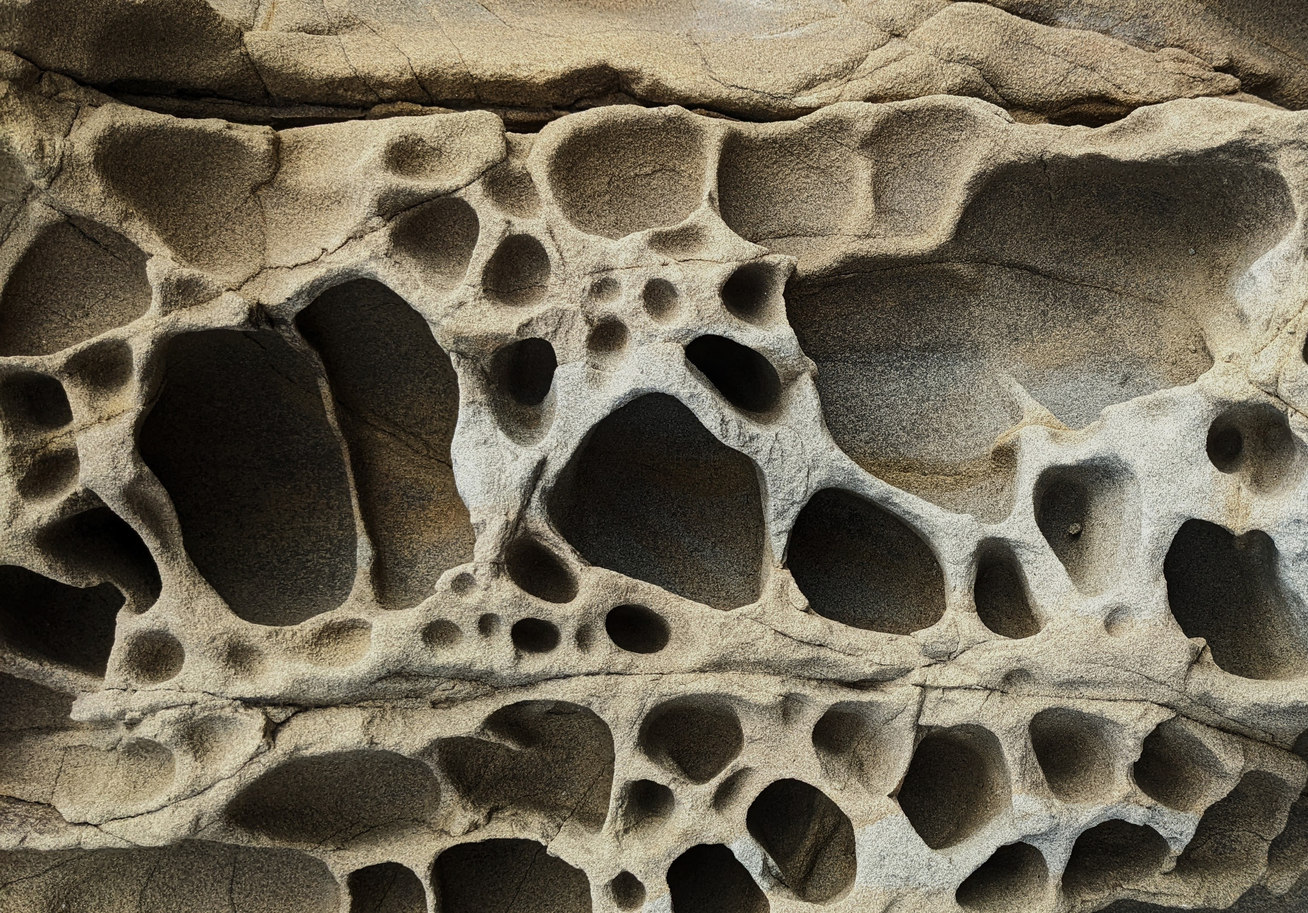
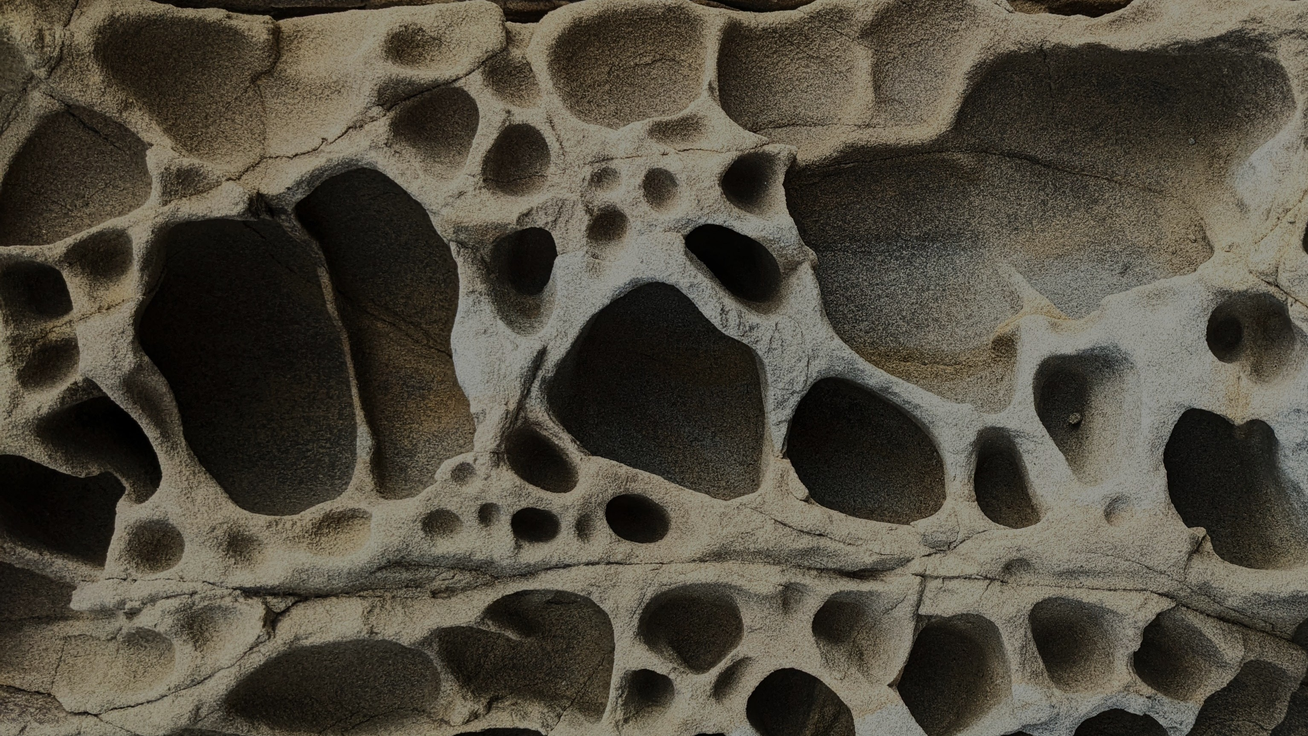
Cutlery updates and minor changes

diff --git a/src/content/pages/modular-cutlery.md b/src/content/pages/modular-cutlery.md
@@ -58,7 +58,9 @@ _The goal of this project was to explore my thesis: adding functionality to comm
 
 The modular cutlery design piece was put on display at the Boston Design Center for 2 weeks alongside other students' completed sets.
 
-![Boston Design Center Display](/images/image.png)
+<div class="aspect-[9:16] w-150 overflow-hidden mx-auto bg-[#111]">
+  <img src="/images/omnicut2.jpg" alt="omnicut" class="w-full h-full object-cover object-bottom" />
+</div>
 
 A designer lamp was photographed in the Boston Design Center to make the 3D rendering. The resulting model was sent through programs such as Microsoft 3D Repair to ensure the mesh was complete enough to be altered; developing techniques to seal and manipulate meshes of complex 3D models with thousands of vertices.
 
@@ -97,19 +99,29 @@ A designer lamp was photographed in the Boston Design Center to make the 3D rend
   <img src="/images/f470f-87d8fb_3165cf11d65c4ca5bb0ba5ba6e52e9eemv2_d_2592_3888_s_4_2.jpg" class="w-full" />
 </div>
 
-I began with sketches of ideas for a complete set of useful forms solely by recontextualizing the scanned lamp shape. These ideas ranged from interior automotive elements to bedroom furniture sets and, of course, to chopsticks. The displayed sketches show some of the brainstorming already within the realm of dishware.
+The resulting full 3D scan, and the cleaned up file generated from it, can be seen here. 
 
-These sketches were transformed into 3D sketches in Solidworks and further model manipulation was done within and between Maya, Adobe Illustrator, Netfabb, and Blender.
 
-<div class="grid grid-cols-4 gap-8">
-  <img src="/images/6130e-87d8fb_253413b2ac8b477d959f214c152c7edamv2.png" />
-  <img src="/images/58292-87d8fb_0cfb485cf9804e26b238d6191878fe80mv2.png" />
-  <img src="/images/39e4f-87d8fb_c56e77a36e5f403994503d3185056f10mv2.png" />
-  <img src="/images/159a0-87d8fb_28a620674b034a4c8585e83f910d67a7mv2.png" />
-  <img src="/images/171ec-87d8fb_c415a410b78d4e0095f0eebae2725964mv2.png" />
-  <img src="/images/e93b3-87d8fb_063f75c07ff248e4a84c88ea79d71d00mv2.png" />
-  <img src="/images/6ccaa-87d8fb_89452758ebc1449e8deab0db83d5c3admv2.png" />
-  <img src="/images/46182-87d8fb_29653ceb65984c4ba16924047a37ca69mv2.png" />
+<div class="grid grid-cols-2 gap-4">
+  <div class="aspect-[9:16] w-full overflow-hidden bg-[#111]">
+  <img src="/images/omni3dscan.jpg" class="w-full h-full object-cover" />
+  </div>
+  <div class="aspect-[9:16] w-full overflow-hidden bg-[#111]">
+  <img src="/images/omni3dfile.jpg" class="w-full h-full object-cover" />
+  </div>
+</div>
+
+I began with sketches of ideas for a complete set of useful forms solely by recontextualizing the scanned lamp shape. These ideas ranged from interior automotive elements to bedroom furniture sets and, of course, to chopsticks.
+
+The tools used began with Solidworks and further model manipulation was done with Maya, Adobe Illustrator, Netfabb, and Blender.
+
+<div class="grid grid-cols-2 gap-4">
+  <img src="/images/omnis2.jpg" />
+  <img src="/images/omnis.jpg" />
+  <img src="/images/omnif2.jpg" />
+  <img src="/images/omnif3.png" />
+  <img src="/images/o-knife.png" />
+  <img src="/images/omnichop.jpg" />
 </div>
 
 The final chopsticks and cutlery pieces were printed in a ceramic printer, a much higher precision, better tactile response, and more dense than plastic printed materials. The machine was a ProJet from 3D Systems.

diff --git a/src/content/pages/professional-experience.md b/src/content/pages/professional-experience.md
@@ -5,7 +5,7 @@ coverImage: "_rock4.jpg"
 layoutType: "organic"
 ---
 
-_I deliver experience-focused design from concept to manufacturing, combining creative problem-solving, rapid prototyping, and cross-cultural collaboration across diverse industries._
+_I deliver experience-focused design from concept through manufacturing, combining creative problem-solving, rapid prototyping, and cross-cultural collaboration in diverse industries._
 
 <div class="mb-20">
   <img src="/images/swivl_logo_wordmark_white.png" alt="Swivl Logo" class="not-prose w-48 mb-8 block object-contain" />
